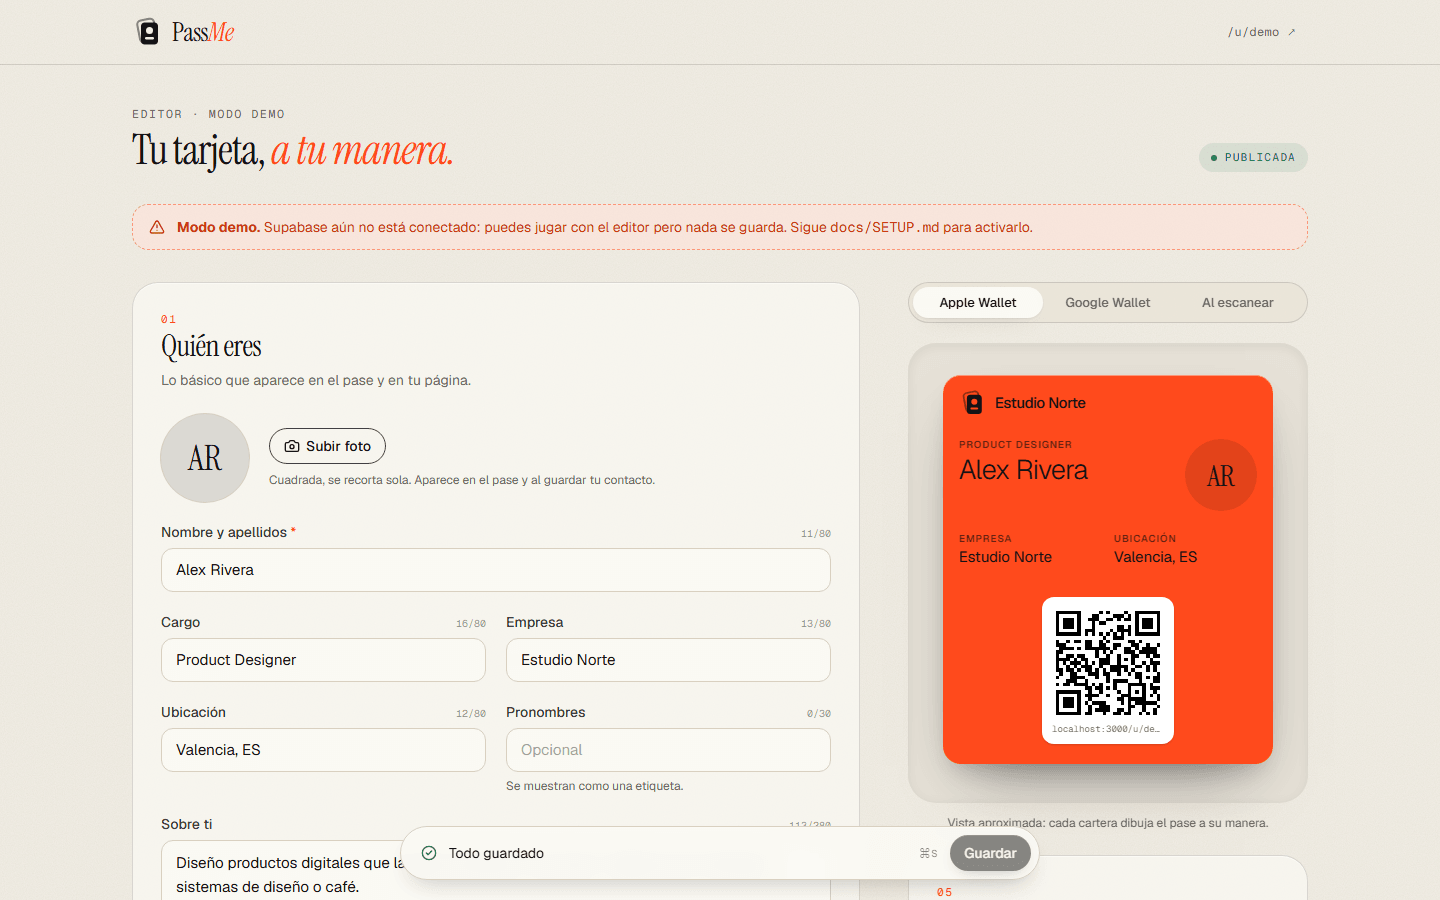
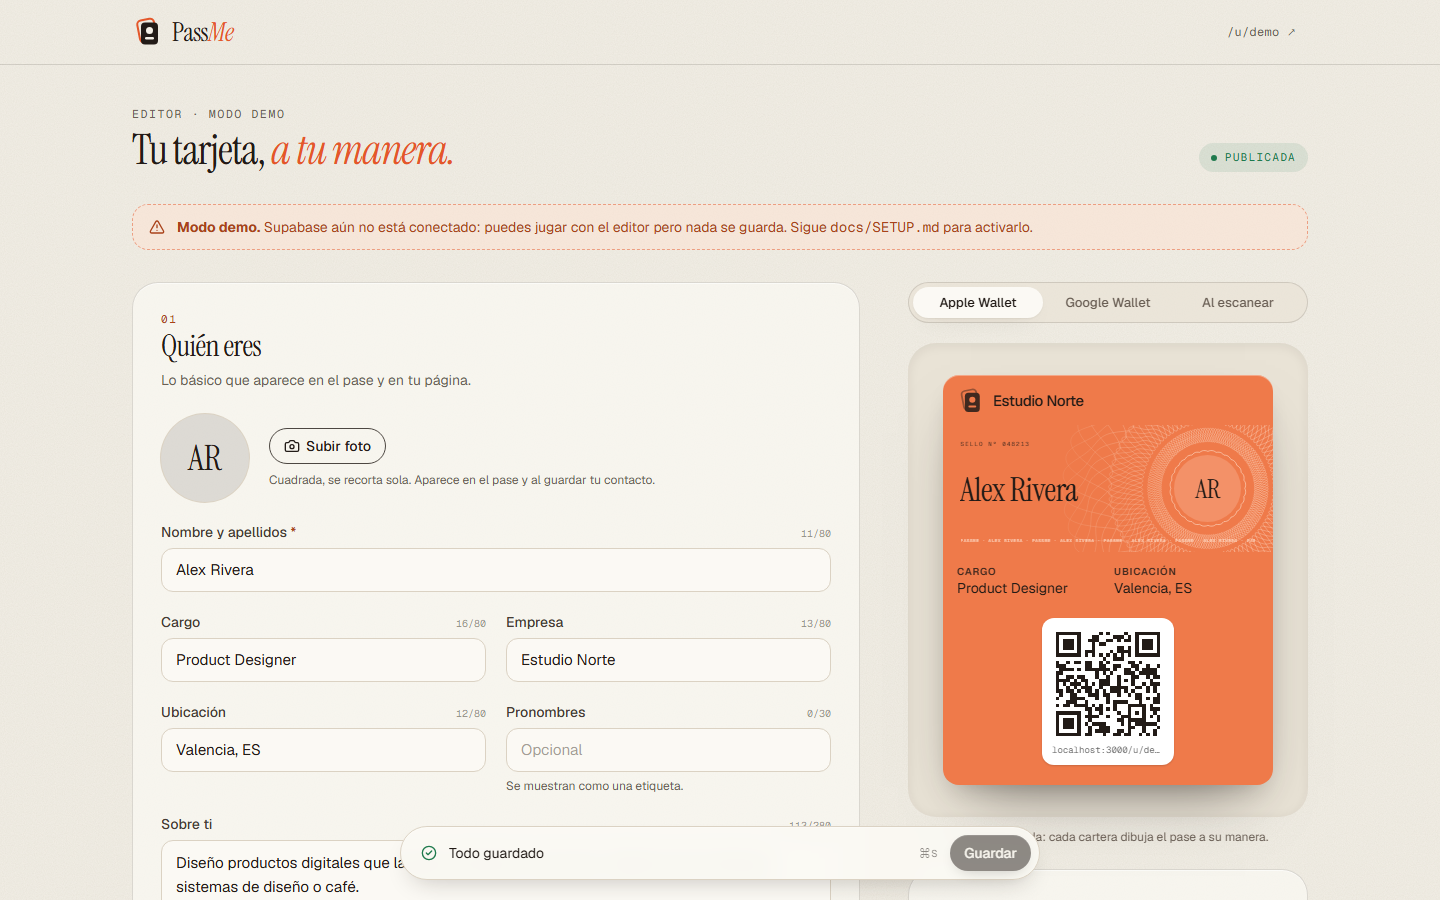
docs: pass artwork pipeline, design migration and new screenshots

Changed region(s): [[0.6562, 0.4044, 0.9062, 0.9333], [0.1875, 0.1556, 0.3125, 0.1867], [0.125, 0.2489, 0.1875, 0.28]]

diff --git a/docs/ARCHITECTURE.md b/docs/ARCHITECTURE.md
@@ -25,9 +25,9 @@ sequenceDiagram
 
 | Capa | Dónde | Responsabilidad |
 | --- | --- | --- |
-| Dominio | `src/lib/card/*` | Tipos de enlace (validación + href seguro), esquema Zod, vCard 3.0, colores legibles, slugs. Isomórfico: la misma validación en navegador y servidor. |
+| Dominio | `src/lib/card/*` | Tipos de enlace (validación + href seguro), esquema Zod, vCard 3.0, colores legibles, diseño (`design.ts`: temas, tintas, sello) y motivos generativos (`pattern.ts`), slugs. Isomórfico: la misma validación en navegador y servidor. |
 | Datos | `src/lib/data/*` | Lecturas/escrituras en Supabase. Cliente con sesión (RLS) para el dueño, cliente anónimo para lo público y cliente *admin* solo donde es imprescindible. |
-| Pases | `src/lib/pass/*` | `apple.ts` (pass.json + firma), `google.ts` (objeto genérico + JWT + sync REST), `apns.ts` (push HTTP/2), `web-service.ts` (protocolo de Apple), `handoff.ts` (tokens de 30 min), `images.ts` (logo/icono/miniatura con sharp). |
+| Pases | `src/lib/pass/*` | `apple.ts` (pass.json + firma), `google.ts` (objeto genérico + JWT + sync REST), `apns.ts` (push HTTP/2), `web-service.ts` (protocolo de Apple), `handoff.ts` (tokens de 30 min), `images.ts` (logo/icono con sharp), `art.tsx` (banda de Apple y *hero* de Google con Satori). |
 | Rutas | `src/app/**` | Páginas (landing, tarjeta, login, editor, handoff) y API (`/api/pass/*`, `/api/wallet/v1/*`, `/api/events`, `/api/health`). |
 | Borde | `src/proxy.ts` | CSP con nonce por petición, refresco de sesión de Supabase, redirección de `/dashboard` sin sesión. |
 
@@ -46,7 +46,10 @@ erDiagram
         text full_name
         text headline
         text company
-        text accent_color "#RRGGBB"
+        text accent_color "fondo #RRGGBB"
+        text detail_color "tinta de detalle o null (auto)"
+        text pattern "sello|ondas|senal|liso"
+        int pattern_seed "0..999999 = Nº de sello"
         text avatar_path "uid/archivo.jpg"
         jsonb links "[{id, kind, value, label?, visible}]"
         bool is_published
@@ -100,13 +103,30 @@ sequenceDiagram
 
 El número de serie del pase es el `id` del perfil; el `lastUpdated` es el `updated_at` en milisegundos.
 
+## Arte del pase
+
+```mermaid
+flowchart LR
+    D["design.ts<br/>tema · tintas · motivo · Nº sello"] --> P["pattern.ts<br/>rutas SVG deterministas"]
+    P --> A["PassArt (JSX, estilos en línea)"]
+    A -->|navegador| E["Vista previa del editor,<br/>landing, página pública"]
+    A -->|Satori + sharp| S["strip.png @1x/2x/3x<br/>(Apple store card)"]
+    A -->|Satori| H["/u/[slug]/hero?v=…<br/>(Google hero 1032×336)"]
+    A -->|Satori| O["opengraph-image"]
+```
+
+Las imágenes se memorizan por versión del arte (colores, motivo, semilla, nombre y foto). La guía visual completa está en [`BRAND.md`](BRAND.md).
+
 ## Decisiones
 
 | Decisión | Motivo |
 | --- | --- |
 | Next.js en Vercel + Supabase | Lo pedido; cero servidores que mantener, plan gratuito suficiente para el MVP. |
 | Perfiles creados en la app (no trigger en `auth.users`) | Un fallo al generar el slug nunca puede bloquear un registro. |
-| Pase "generic" de Apple | Es el estilo pensado para tarjetas de socio/contacto: nombre grande, miniatura y QR. |
+| Pase *store card* de Apple | Es el único estilo con banda de imagen a todo el ancho (375×144 pt): ahí va el arte de la tarjeta (guilloché, foto y nombre en nuestra tipografía). Los campos de texto reales (cargo, ubicación) siguen debajo para VoiceOver y el Apple Watch. |
+| Un solo componente de arte (`components/card/pass-art.tsx`) | Estilos en línea y flexbox: el mismo árbol lo pinta el navegador (vista previa) y Satori en el servidor (PNG del pase). Lo que ves en el editor es lo que llega a la cartera. |
+| Motivo con semilla guardada | El número de sello (`pattern_seed`) genera el guilloché de forma determinista; editar el nombre no cambia el dibujo, «Otro sello» sí. |
+| *Hero* de Google con `?v=` | Google cachea las imágenes por URL; la versión (hash de las entradas del arte) cambia solo cuando cambia el dibujo. |
 | JWT con clase + objeto para Google | No hace falta llamar a la API para crear el pase; la API solo se usa para actualizar. |
 | vCard 3.0 | La versión con mejor compatibilidad en iOS y Android. |
 | Modo demo sin variables | Se puede enseñar y desarrollar sin credenciales; los tests E2E corren sin secretos. |

diff --git a/docs/SETUP.md b/docs/SETUP.md
@@ -44,9 +44,11 @@ Sin tocar nada, `npm run dev` ya funciona en **modo demo**: landing, tarjeta de 
    - *Publishable key* (`sb_publishable_…`) → `NEXT_PUBLIC_SUPABASE_PUBLISHABLE_KEY`
    - *Secret key* (`sb_secret_…`, créala si no existe) → `SUPABASE_SECRET_KEY`
    - Si tu proyecto solo muestra las claves antiguas (*Legacy*): `anon` → `NEXT_PUBLIC_SUPABASE_ANON_KEY` y `service_role` → `SUPABASE_SERVICE_ROLE_KEY`. La app acepta ambos nombres.
-3. **Base de datos** → *SQL Editor → New query* → pega **todo** el contenido de
-   [`supabase/migrations/20260927120000_init.sql`](../supabase/migrations/20260927120000_init.sql) → *Run*.
-   Debe terminar con *Success. No rows returned*. Crea tablas, políticas RLS, funciones y el bucket `avatars`.
+3. **Base de datos** → *SQL Editor → New query* → pega **todo** el contenido de cada migración, **en orden**, y pulsa *Run* en cada una:
+   1. [`supabase/migrations/20260927120000_init.sql`](../supabase/migrations/20260927120000_init.sql) — tablas, políticas RLS, funciones y el bucket `avatars`.
+   2. [`supabase/migrations/20260928120000_card_design.sql`](../supabase/migrations/20260928120000_card_design.sql) — diseño del pase (tinta de detalle, motivo y número de sello).
+
+   Cada una debe terminar con *Success. No rows returned*. Si ya aplicaste la primera, ejecuta solo la segunda.
    - Alternativa con CLI: `npx supabase login && npx supabase init && npx supabase link --project-ref <ref> && npx supabase db push`.
 4. **URLs de autenticación** → *Authentication → URL Configuration*:
    - *Site URL*: `http://localhost:3000` por ahora (en el paso 3 pondrás la de producción).
@@ -145,6 +147,7 @@ Necesitas el **Apple Developer Program** (99 $/año). Si te das de alta como emp
 6. `npm run doctor` → *Google Wallet* en ✔ (hace un intercambio de token real con Google).
 7. **Modo prueba**: hasta que Google apruebe tu cuenta de emisor solo pueden guardar pases los usuarios de prueba. En la Wallet Console añade tu cuenta de Google como *test user*. Prueba con `https://TU-URL/api/pass/google?demo=1` desde Android o Chrome.
 8. **Publicar**: cuando todo funcione, *Request publishing access* en la Wallet Console (Google revisa el diseño de la clase).
+9. **Imagen del pase**: el arte de cada tarjeta (guilloché y sello) se sirve desde `/u/<slug>/hero`, así que `NEXT_PUBLIC_SITE_URL` debe ser una URL pública para que Google pueda descargarla. Si algún día cambias las filas de la plantilla de la clase (`buildGenericClass`), sube la versión en `GOOGLE_WALLET_CLASS_SUFFIX` (`passme_card_v2`…): Google no actualiza una clase ya creada desde el JWT.
 
 ---
 

diff --git a/AGENTS.md b/AGENTS.md
@@ -17,5 +17,6 @@ Digital business card delivered as Apple Wallet / Google Wallet passes. UI copy 
 - **Validation lives in `src/lib/card/*`** and is shared by client and server. When changing slug rules, link kinds or avatar paths, update the matching `CHECK` constraints in `supabase/migrations/` (and add a new migration file rather than editing an applied one once the project is live).
 - **Security invariants**: hidden links must never reach the browser (public reads go through `get_public_card`); every Server Action re-checks the session; the admin (secret-key) client is only for wallet web service, analytics inserts, OTP lockout and account deletion; hrefs are only built via `linkHref()`.
 - **CSP**: `src/proxy.ts` issues a nonce per request and the root layout calls `connection()` so every page is dynamic. Don't add inline `<script>`s; external origins must be added to the CSP.
-- **Design system**: tokens in `src/app/globals.css` (`paper`, `ink`, `signal`, fonts `font-display`/`font-sans`/`font-mono`), `cn()` merges Tailwind classes. Editorial style: serif headlines with an italic signal-colored accent, mono uppercase "eyebrow" labels, numbered sections.
+- **Design system** (brand guide: `docs/BRAND.md`): tokens in `src/app/globals.css` (`paper` beige, `ink` = Café, `signal` = Naranja, `glow` = Melocotón pastel; fonts `font-display`/`font-sans`/`font-mono`), `cn()` merges Tailwind classes. Warm editorial style: serif headlines with an italic signal-colored accent, mono uppercase "eyebrow" labels, numbered sections; the pass adds guilloché/microtext "security print" details.
+- **Pass artwork**: `src/components/card/pass-art.tsx` is rendered by both the browser and Satori (`src/lib/pass/art.tsx`), so keep it to inline styles + flexbox, no hooks and no element ids. Design fields (`accentColor`, `detailColor`, `pattern`, `patternSeed`) are validated in `src/lib/card/design.ts`/`pattern.ts` and mirrored by DB `CHECK`s.
 - **Docs**: setup steps in `docs/SETUP.md`, architecture/security model in `docs/ARCHITECTURE.md`.

diff --git a/README.md b/README.md
@@ -17,6 +17,7 @@ cartera, junto a tus tarjetas y billetes.
 ## Qué hace
 
 - **Pases de cartera**: `.pkpass` firmado para Apple Wallet y pase genérico de Google Wallet, con tu foto, nombre, cargo, empresa y un QR.
+- **Un pase que no se parece a ningún otro**: cada tarjeta lleva un sello de guilloché generado a partir de su número, como los de pasaportes y billetes. Eliges tema, tintas y motivo; el arte se renderiza en el servidor y la vista previa del editor es idéntica al pase real.
 - **Página al escanear** (`/u/tu-nombre`): tarjeta con tus contactos, botón **Guardar contacto** (vCard con foto) y compartir.
 - **Privacidad por diseño**: cada contacto se puede ocultar; lo oculto **no sale del servidor** (lo filtra la base de datos). Métricas sin IPs ni cookies.
 - **Siempre actualizada**: al editar tu tarjeta, los pases de Apple se actualizan solos (web service + push APNs) y el de Google se sincroniza por API.
@@ -71,12 +72,12 @@ src/
   app/                 rutas (landing, /u/[slug], /dashboard, /login, /wallet, api/*)
   components/          brand · card (pase, tarjeta, QR) · editor · landing · ui
   lib/
-    card/              dominio: tipos de enlace, validación, vCard, colores, slugs
+    card/              dominio: tipos de enlace, validación, vCard, colores, diseño y motivos, slugs
     data/              acceso a datos (Supabase)
-    pass/              Apple (.pkpass, APNs, web service) y Google Wallet
+    pass/              Apple (.pkpass, APNs, web service), Google Wallet y arte del pase (Satori)
     supabase/          clientes server/browser/admin y tipos
   proxy.ts             CSP con nonce, refresco de sesión y protección de /dashboard
-supabase/              migración SQL y plantilla de email
+supabase/              migraciones SQL y plantilla de email
 scripts/               doctor, certificados Apple, assets de marca
 tests/ · e2e/          Vitest · Playwright
 ```
